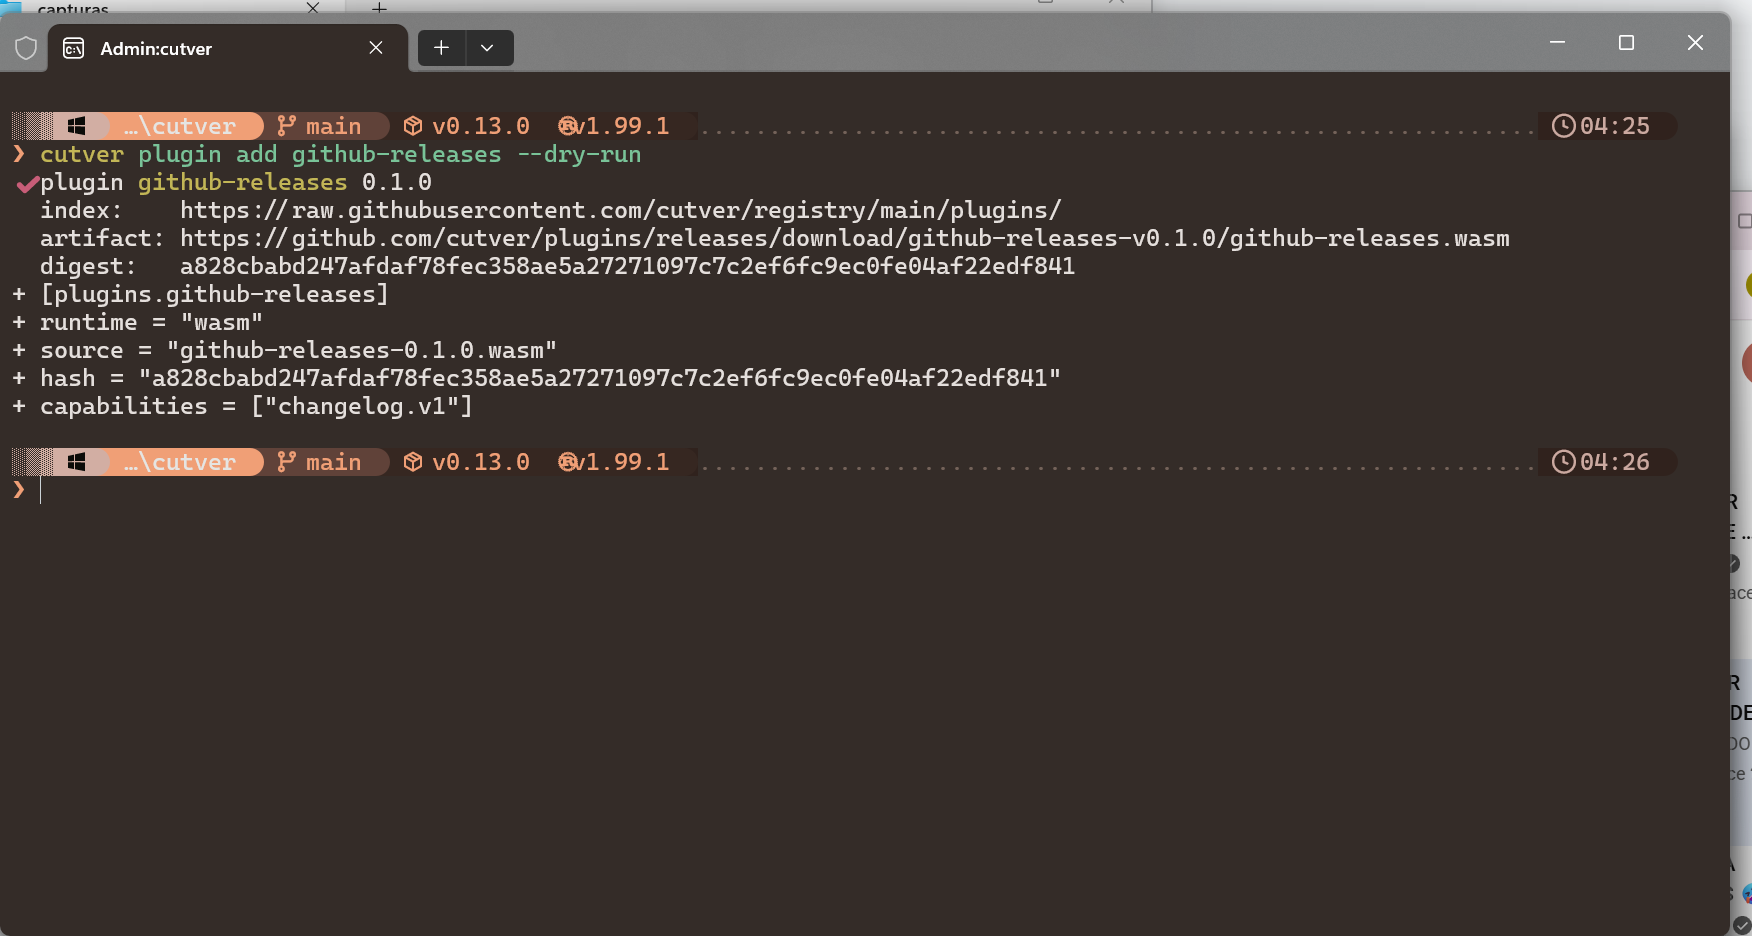
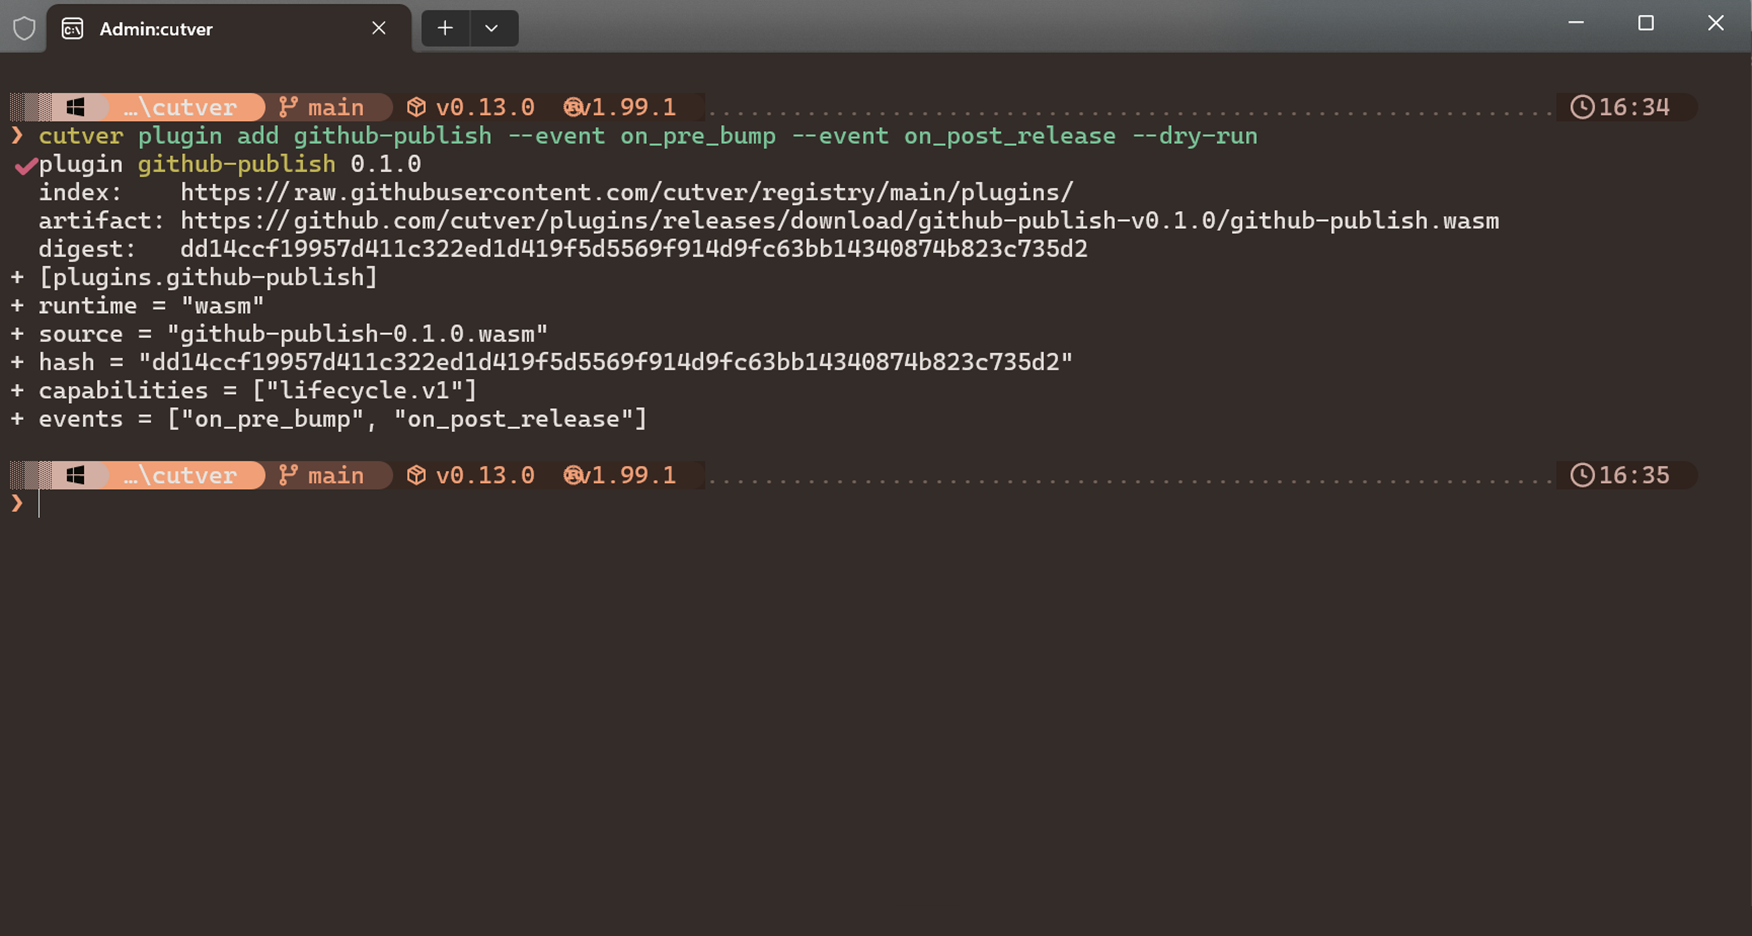
docs: update plugin showcase gallery asset with github-publish

Changed region(s): [[0.0, 0.0, 1.0, 1.0], [0.8938, 0.4647, 0.9555, 0.5267]]

diff --git a/README.md b/README.md
@@ -66,7 +66,7 @@ See Cutver in action across the release lifecycle:
 
 | WebAssembly Plugin Engine (`cutver plugin add`) | Formatted Release Notes (`cutver changelog latest`) |
 | :---: | :---: |
-| <img src="assets/cutver_plugin_showcase.png" width="440" alt="Terminal output of cutver plugin add github-releases --dry-run: Demonstrating registry index resolution, wasm binary download URL, SHA-256 digest validation, and cutver.toml injection." /> | <img src="assets/cutver_changelog_latest_showcase.png" width="440" alt="Terminal output of cutver changelog latest: Displaying generated release notes with conventional commit links, emojis for bug fixes, features, and full changelog diff." /> |
+| <img src="assets/cutver_plugin_showcase.png" width="440" alt="Terminal output of cutver plugin add github-publish --event on_pre_bump --event on_post_release --dry-run: Demonstrating registry index resolution, wasm binary download URL, SHA-256 digest validation, and cutver.toml injection." /> | <img src="assets/cutver_changelog_latest_showcase.png" width="440" alt="Terminal output of cutver changelog latest: Displaying generated release notes with conventional commit links, emojis for bug fixes, features, and full changelog diff." /> |
 
 </div>
 
